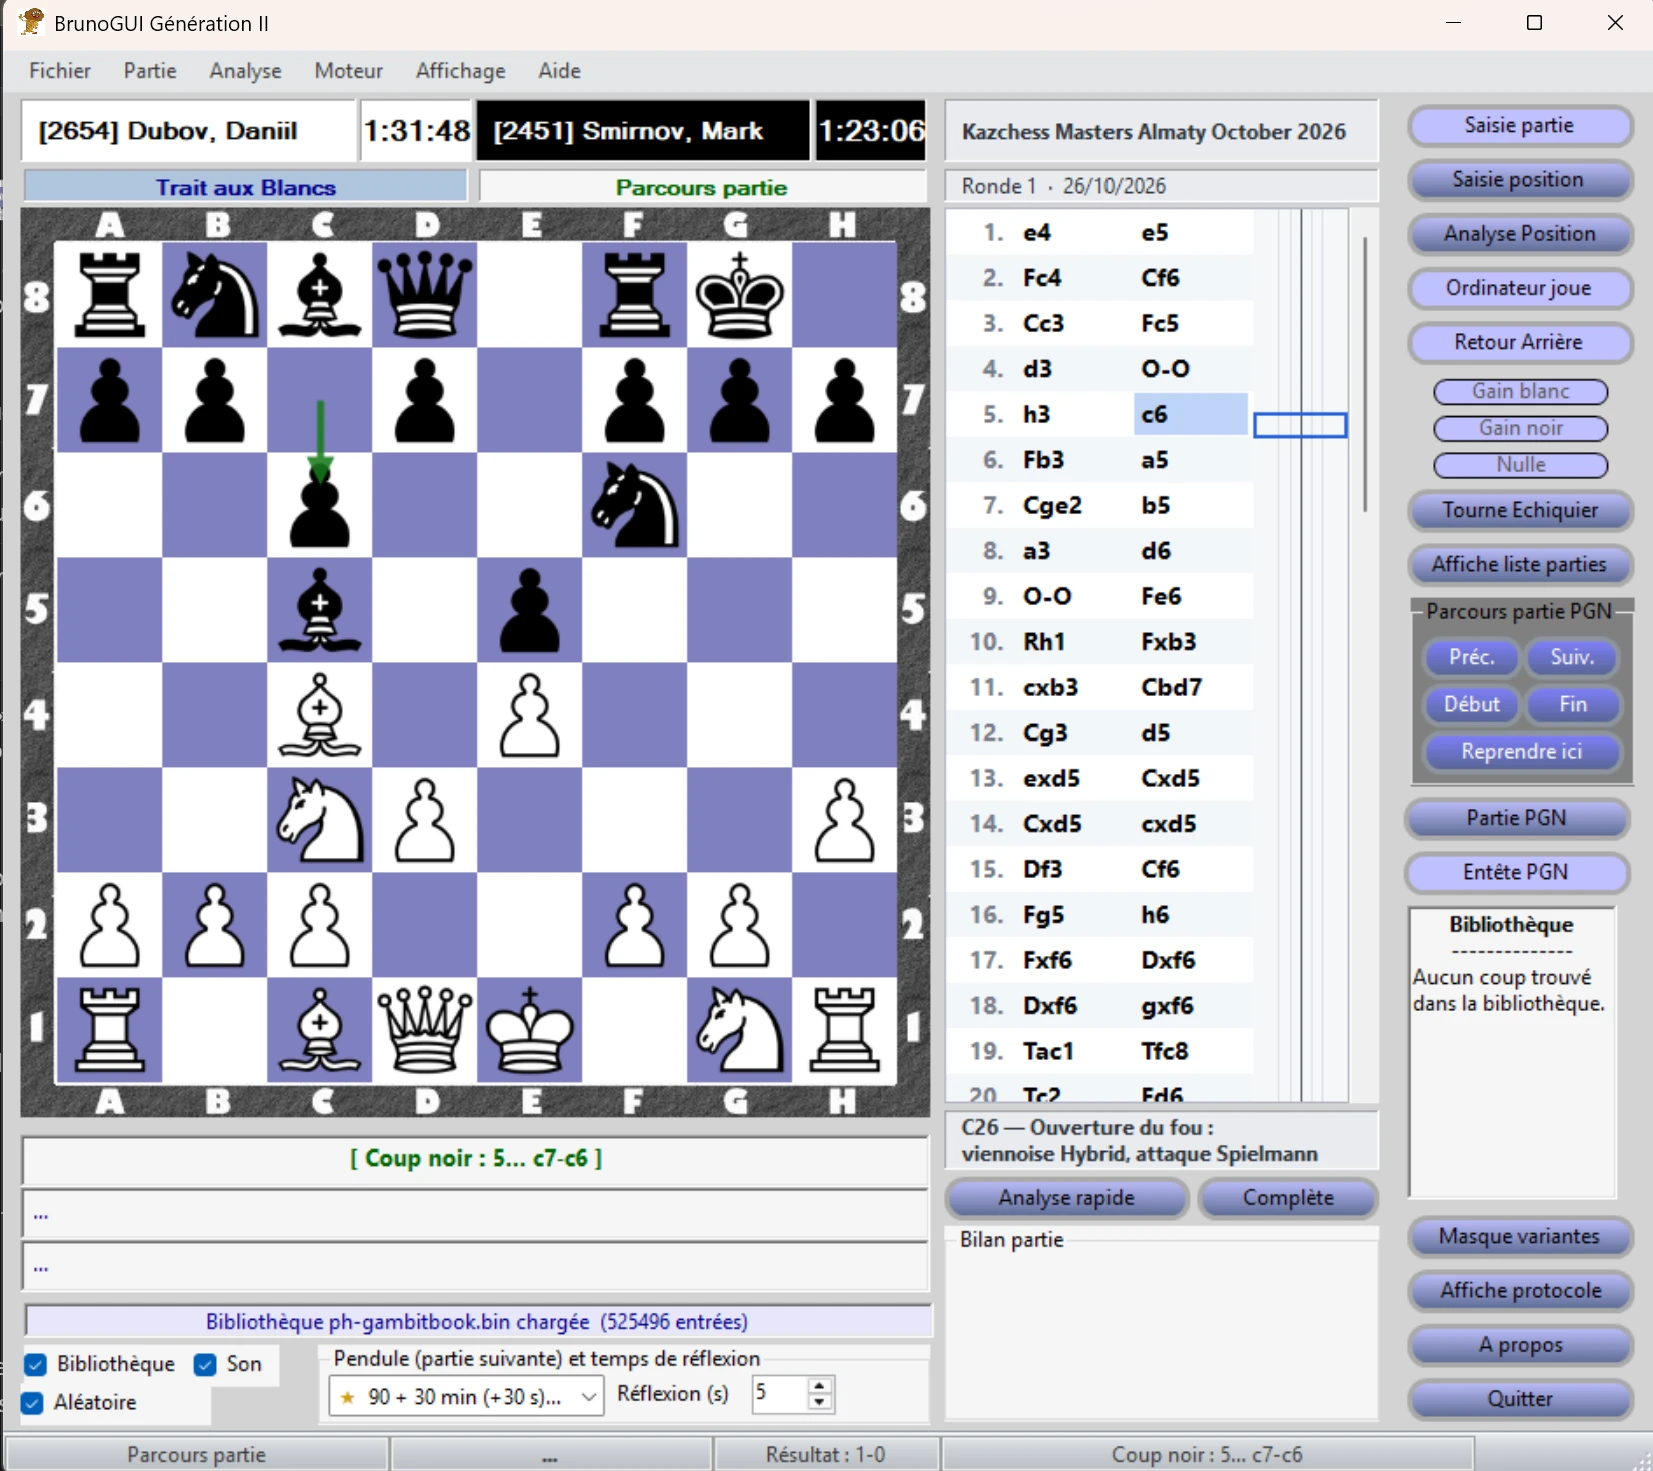
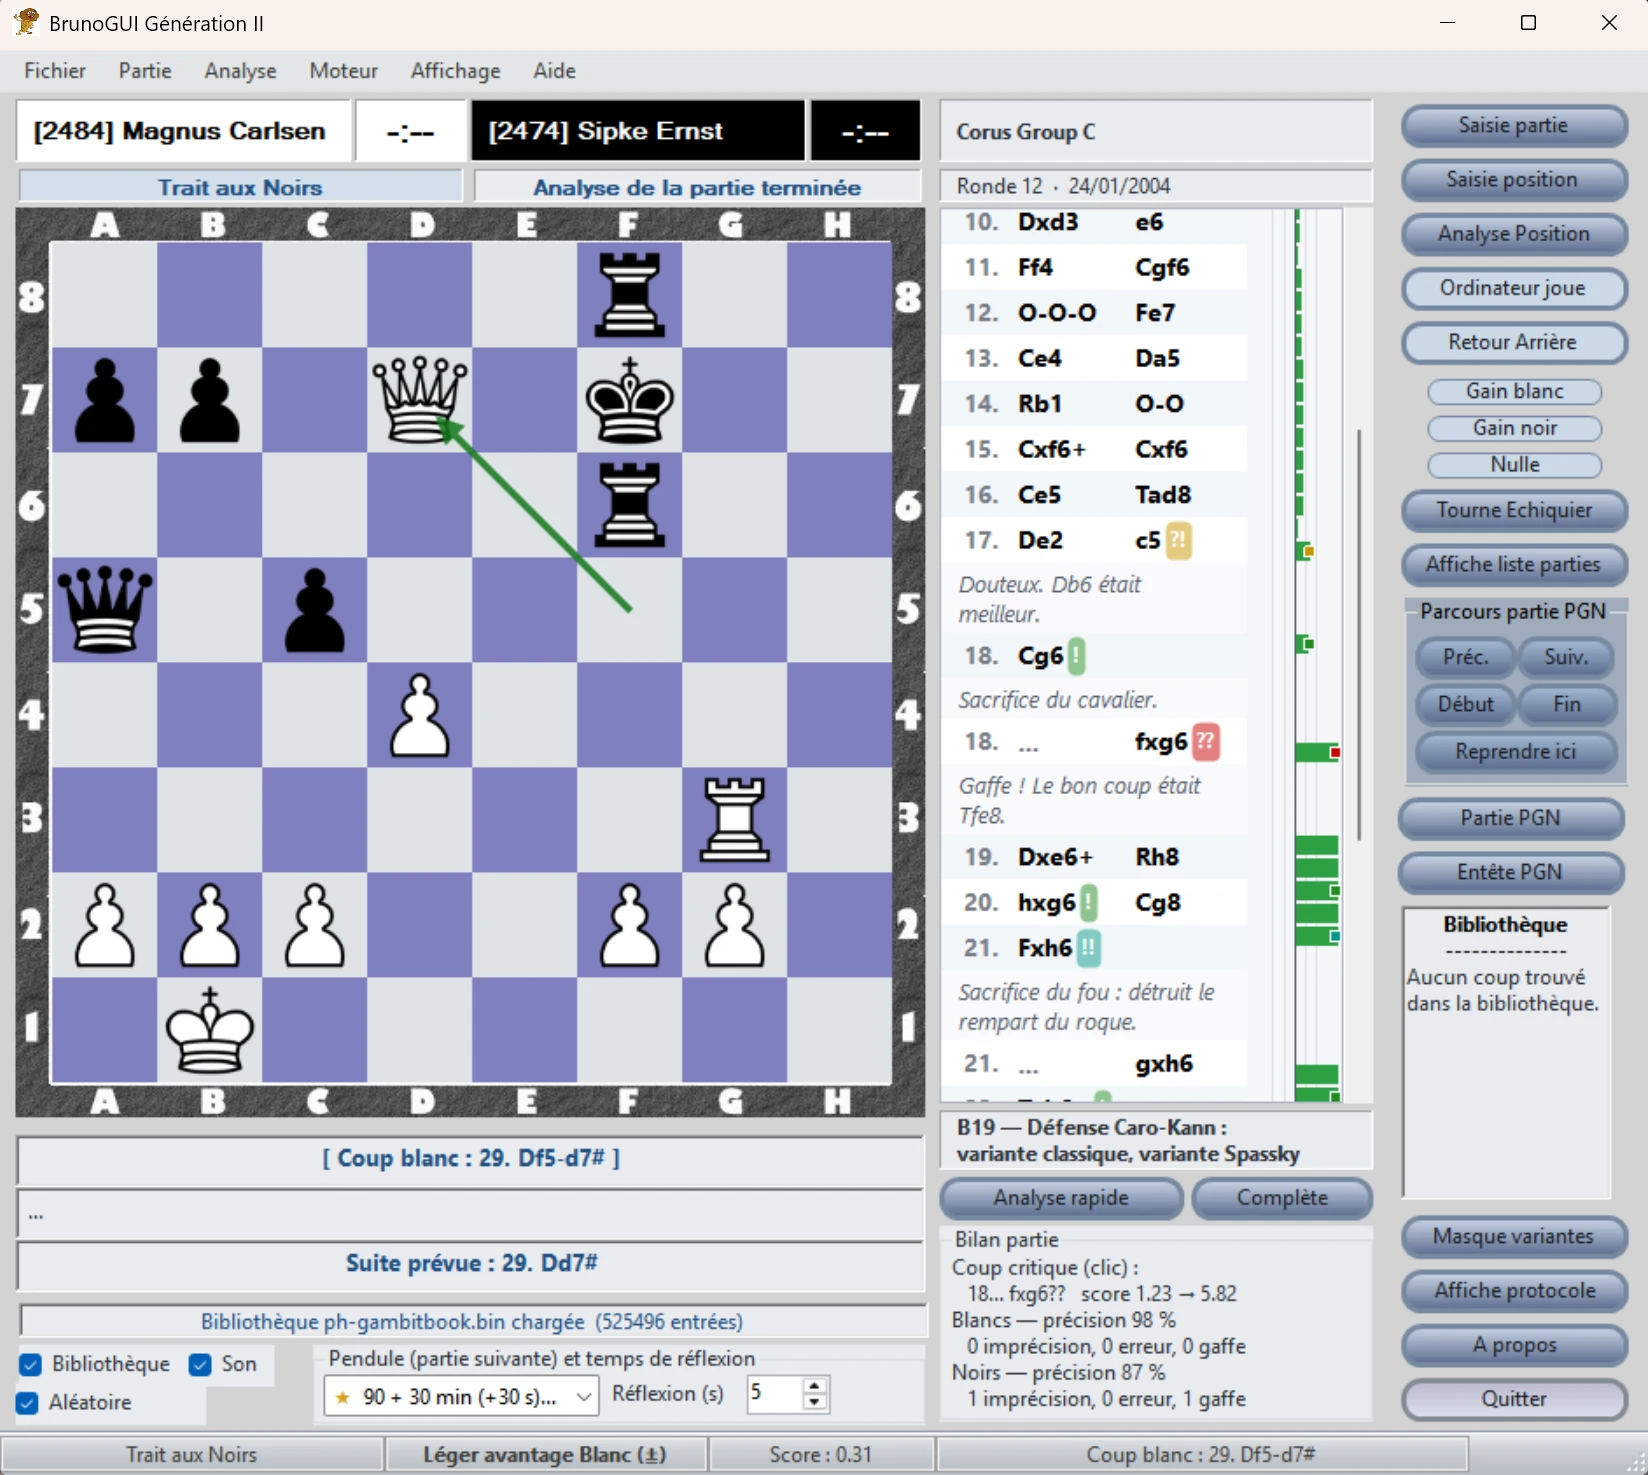
Nouvelle capture de la fenêtre principale (aide et page d'accueil), capture anglaise retirée

diff --git a/Aide/fr/index.html b/Aide/fr/index.html
@@ -48,7 +48,7 @@
 <h2 id="fenetre">2. La fenêtre principale</h2>
 <figure>
     <img src="images/01-fenetre-principale.webp" alt="La fenêtre principale de BrunoGUI">
-    <figcaption>La fenêtre principale, pendant le parcours d'une partie.</figcaption>
+    <figcaption>La fenêtre principale, pendant le parcours d'une partie analysée.</figcaption>
 </figure>
 <ul>
     <li><b>En haut</b> : les joueurs (« [Elo] Nom ») et leurs pendules.</li>
